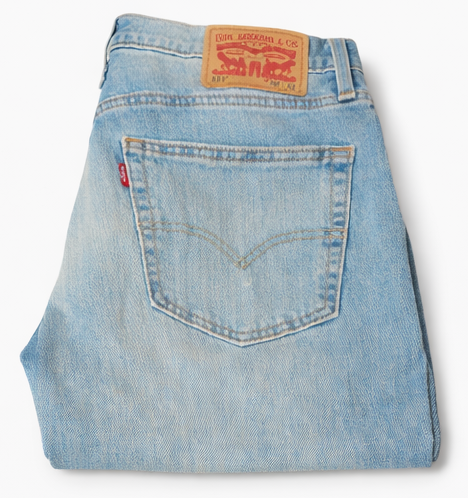
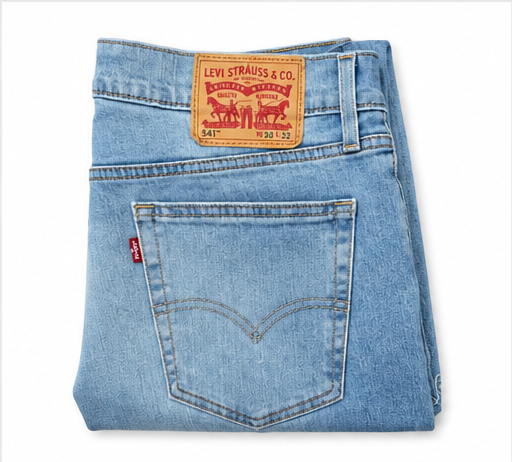
Refresh jeans catalog — 4 new clean images with updated attributes

diff --git a/catalog.js b/catalog.js
@@ -188,27 +188,18 @@ const catalog = {
       fabric: "cotton", pattern: "solid", tuck: "untucked", sleeve: "short" },
   ],
   pants: [
-    { file: "pants_denim_levis_dark_wash.png",            name: "Levi's Dark Wash",       sub: "Jeans", subsub: "Smart Casual",
-      brand: "Levi's", formality: ["Smart Casual", "Casual"], color: "dark indigo", colorFamily: "cool", tone: "dark", season: "All Season", description: "Deep indigo slim-straight Levi's denim, clean and dark enough to dress up with a blazer.",
+    { file: "pants_denim_levis_dark_indigo.png",          name: "Levi's Dark Indigo",      sub: "Jeans", subsub: "Smart Casual",
+      brand: "Levi's", formality: ["Smart Casual", "Casual"], color: "dark indigo", colorFamily: "cool", tone: "dark", season: "All Season", description: "Very dark indigo slim-straight Levi's denim, clean and deep enough to wear with a blazer.",
       fabric: "denim", pattern: "solid", cut: "slim", hem: "full", beltLoop: "wide" },
-    { file: "pants_denim_levis_dark_blue.png",            name: "Levi's Dark Blue",        sub: "Jeans", subsub: "Casual",
-      brand: "Levi's", formality: ["Smart Casual", "Casual"], color: "dark blue", colorFamily: "cool", tone: "dark", season: "All Season", description: "Dark blue straight-cut Levi's denim, casual everyday wear despite the darker wash.",
-      fabric: "denim", pattern: "solid", cut: "straight", hem: "full", beltLoop: "wide" },
-    { file: "pants_denim_westbay_dark_indigo.png",        name: "Westbay Dark Indigo",     sub: "Jeans", subsub: "Casual",
-      brand: "Westbay", formality: ["Smart Casual", "Casual"], color: "dark indigo", colorFamily: "cool", tone: "dark", season: "All Season", description: "Dark indigo slim-cut denim, casual in feel despite the dark colour.",
+    { file: "pants_denim_levis_dark_blue.png",            name: "Levi's Dark Blue",        sub: "Jeans", subsub: "Smart Casual",
+      brand: "Levi's", formality: ["Smart Casual", "Casual"], color: "dark blue", colorFamily: "cool", tone: "dark", season: "All Season", description: "Medium-dark blue slim-straight Levi's denim, slightly faded with a versatile everyday feel.",
       fabric: "denim", pattern: "solid", cut: "slim", hem: "full", beltLoop: "wide" },
-    { file: "pants_denim_levis_mid_blue.png",             name: "Levi's Mid Blue",         sub: "Jeans", subsub: "Smart Casual",
-      brand: "Levi's", formality: ["Smart Casual", "Casual"], color: "mid blue", colorFamily: "cool", tone: "medium", season: "All Season", description: "Medium blue straight Levi's denim, smart enough to dress up with a blazer.",
-      fabric: "denim", pattern: "solid", cut: "straight", hem: "full", beltLoop: "wide" },
     { file: "pants_denim_levis_light_wash.png",           name: "Levi's Light Wash",       sub: "Jeans", subsub: "Smart Casual",
-      brand: "Levi's", formality: ["Smart Casual", "Casual"], color: "light blue", colorFamily: "cool", tone: "light", season: "All Season", description: "Light wash Levi's denim, clean and neat enough for smart casual looks.",
-      fabric: "denim", pattern: "solid", cut: "straight", hem: "full", beltLoop: "wide" },
-    { file: "pants_denim_lee_mid_blue_faded.png",         name: "Lee Mid Blue Faded",      sub: "Jeans", subsub: "Casual",
-      brand: "Lee", formality: ["Casual"], color: "faded blue", colorFamily: "cool", tone: "medium", season: "All Season", description: "Faded mid-blue Lee denim with a worn casual look, straight cut with visible whiskering.",
-      fabric: "denim", pattern: "solid", cut: "straight", hem: "full", beltLoop: "wide" },
-    { file: "pants_denim_casualjeans_light_blue.png",     name: "Light Blue Casual Jeans", sub: "Jeans", subsub: "Casual",
-      brand: "", formality: ["Casual"], color: "light blue", colorFamily: "cool", tone: "light", season: "All Season", description: "Very light blue casual jeans, relaxed and easy for everyday casual wear.",
-      fabric: "denim", pattern: "solid", cut: "relaxed", hem: "full", beltLoop: "wide" },
+      brand: "Levi's", formality: ["Smart Casual", "Casual"], color: "light blue", colorFamily: "cool", tone: "light", season: "All Season", description: "Clean light wash Levi's denim, slim-straight cut with a fresh casual look.",
+      fabric: "denim", pattern: "solid", cut: "slim", hem: "full", beltLoop: "wide" },
+    { file: "pants_denim_denimsco_light_wash.png",        name: "Denim Co Light Wash",     sub: "Jeans", subsub: "Smart Casual",
+      brand: "Denim Co", formality: ["Smart Casual", "Casual"], color: "light blue", colorFamily: "cool", tone: "light", season: "All Season", description: "Pale icy light wash Denim Co jeans, slim-straight cut with a relaxed casual feel.",
+      fabric: "denim", pattern: "solid", cut: "slim", hem: "full", beltLoop: "wide" },
     { file: "pants_chino_allensolly_black.png",           name: "Allen Solly Black Chino", sub: "Chinos",
       brand: "Allen Solly", formality: ["Semi-Formal", "Smart Casual", "Casual"], color: "black", colorFamily: "neutral", tone: "dark", season: "All Season", description: "Jet black Allen Solly chino with a clean straight cut, pairs well with both casual and smart casual looks.",
       fabric: "chino", pattern: "solid", cut: "straight", hem: "full", beltLoop: "wide" },